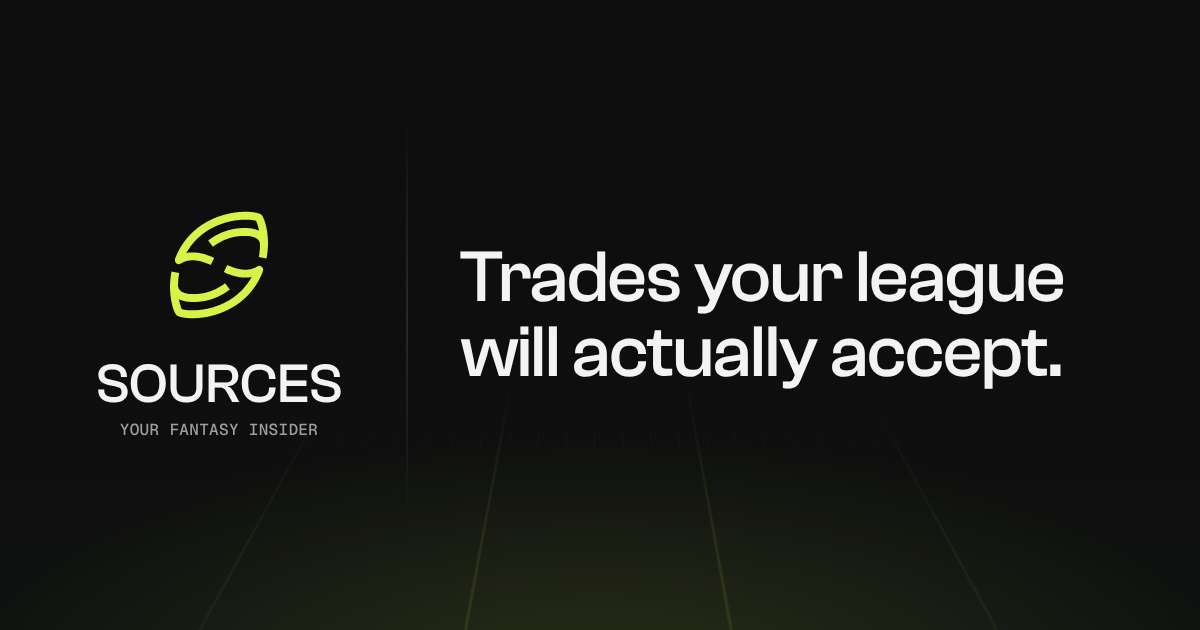
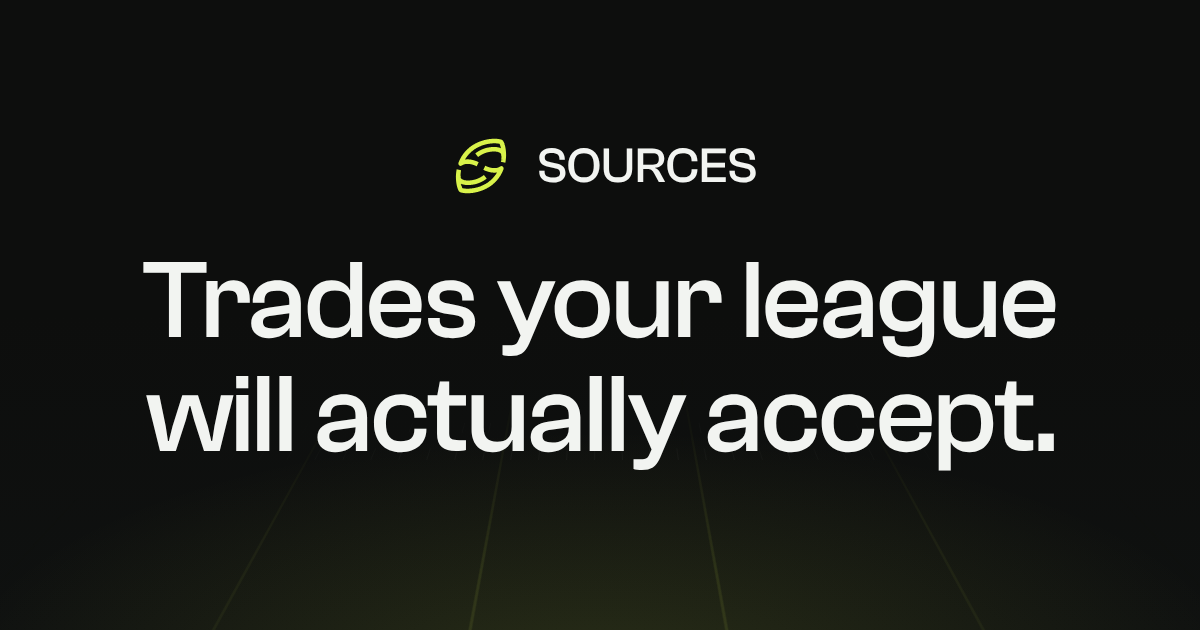
Share image: centered lockup and a big headline that reads as a thumbnail
Discord cropped the old side-by-side card to its middle. Cache-busted to v=2.

Claude-Session: https://claude.ai/code/session_01BnDPwdAZmcbfAH46Myk9RU

Changed region(s): [[0.0617, 0.3317, 0.8942, 0.754], [0.37, 0.2111, 0.6475, 0.3016]]

diff --git a/index.html b/index.html
@@ -17,14 +17,14 @@
     <meta property="og:type" content="website" />
     <meta property="og:site_name" content="Sources" />
     <meta property="og:url" content="https://sources-orpin.vercel.app/" />
-    <meta property="og:image" content="https://sources-orpin.vercel.app/og-image.png?v=1" />
+    <meta property="og:image" content="https://sources-orpin.vercel.app/og-image.png?v=2" />
     <meta property="og:image:type" content="image/png" />
     <meta property="og:image:width" content="1200" />
     <meta property="og:image:height" content="630" />
-    <meta property="og:image:alt" content="The Sources logo, a lime football mark over the wordmark and the line Your fantasy insider, beside the headline: Trades your league will actually accept." />
+    <meta property="og:image:alt" content="The Sources logo, a lime football mark beside the wordmark, above the headline: Trades your league will actually accept." />
     <meta name="twitter:card" content="summary_large_image" />
-    <meta name="twitter:image" content="https://sources-orpin.vercel.app/og-image.png?v=1" />
-    <meta name="twitter:image:alt" content="The Sources logo, a lime football mark over the wordmark and the line Your fantasy insider, beside the headline: Trades your league will actually accept." />
+    <meta name="twitter:image" content="https://sources-orpin.vercel.app/og-image.png?v=2" />
+    <meta name="twitter:image:alt" content="The Sources logo, a lime football mark beside the wordmark, above the headline: Trades your league will actually accept." />
     <meta name="twitter:title" content="Sources: your fantasy insider" />
     <meta name="twitter:description" content="Per sources, this team needs a TE. Sources finds fantasy football trades both sides will accept." />
     <meta property="og:description" content="Per sources, this team needs a TE. Sources finds fantasy football trades both sides will accept." />
